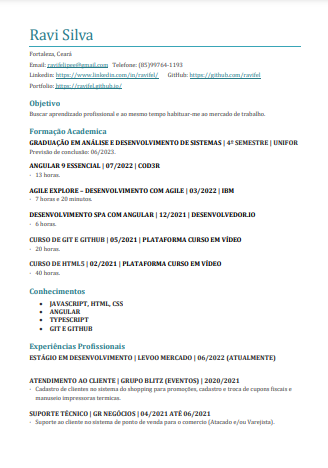
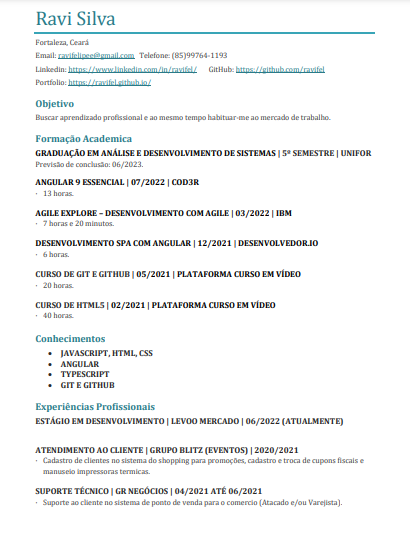
Atualizando curriculo e editando texto de apresentação

Changed region(s): [[0.061, 0.0, 0.9146, 0.9274]]

diff --git a/index.html b/index.html
@@ -118,7 +118,7 @@
             <p class="separator">Tenho 20 anos e estou aprendendo sobre este mundo incrível da tecnologia. Acho
               impressionante como podemos transformar as vidas das pessoas solucionando os problemas reais do dia a dia.
               Isso realmente me deixa cada vez mais apaixonado por todas essas possibilidades. </p>
-            <p class="separator">Estou cursando o 4º semestre de Análise e desenvolvimento de sistemas na Universidade
+            <p class="separator">Estou cursando o 5º semestre de Análise e desenvolvimento de sistemas na Universidade
               de Fortaleza (UNIFOR), no curso estamos aprendendo muitas coisas sobre como implementar as tecnologias da
               atualidade em soluções buscando ajudar em alguma forma. </p>
 
